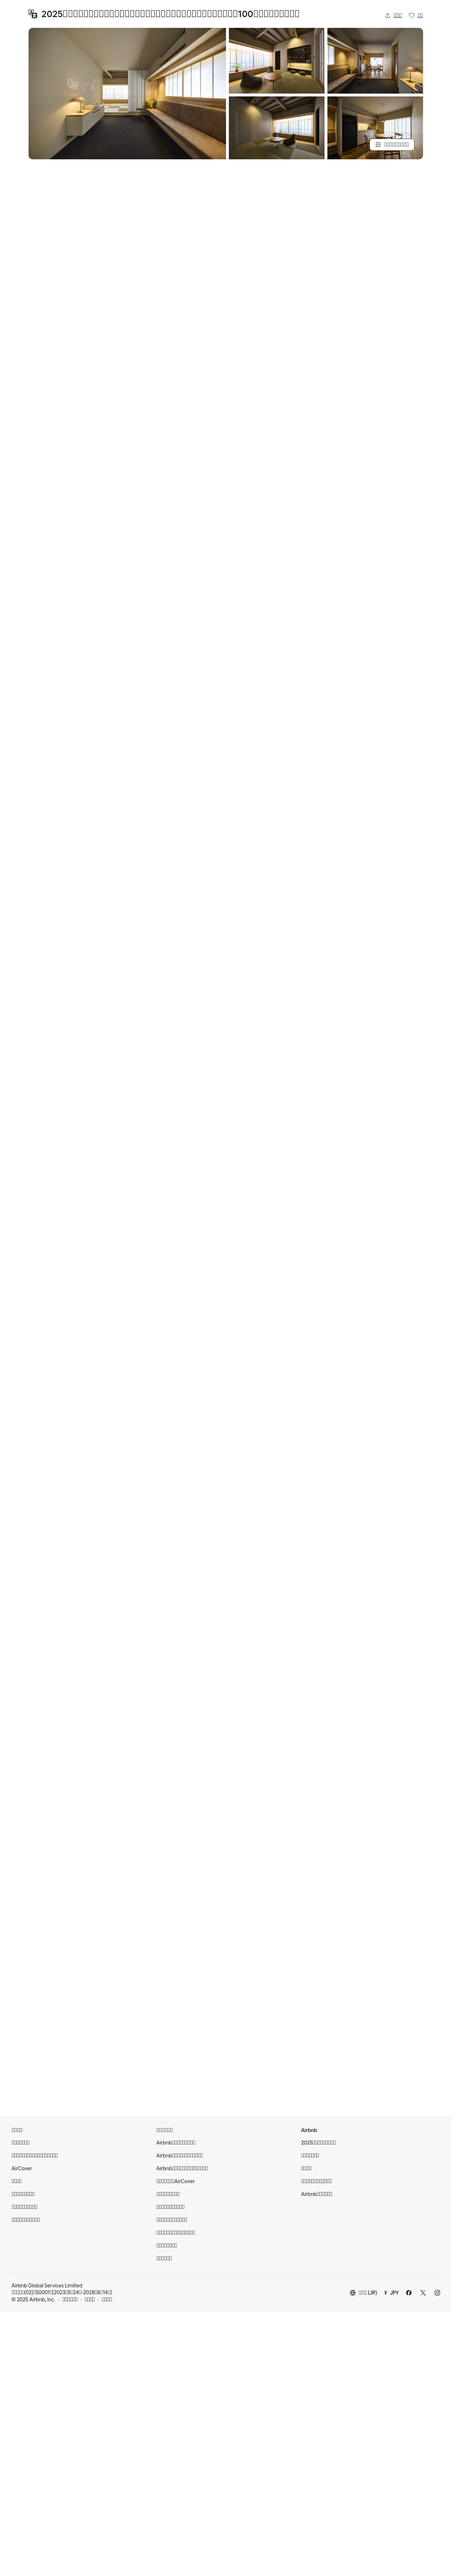
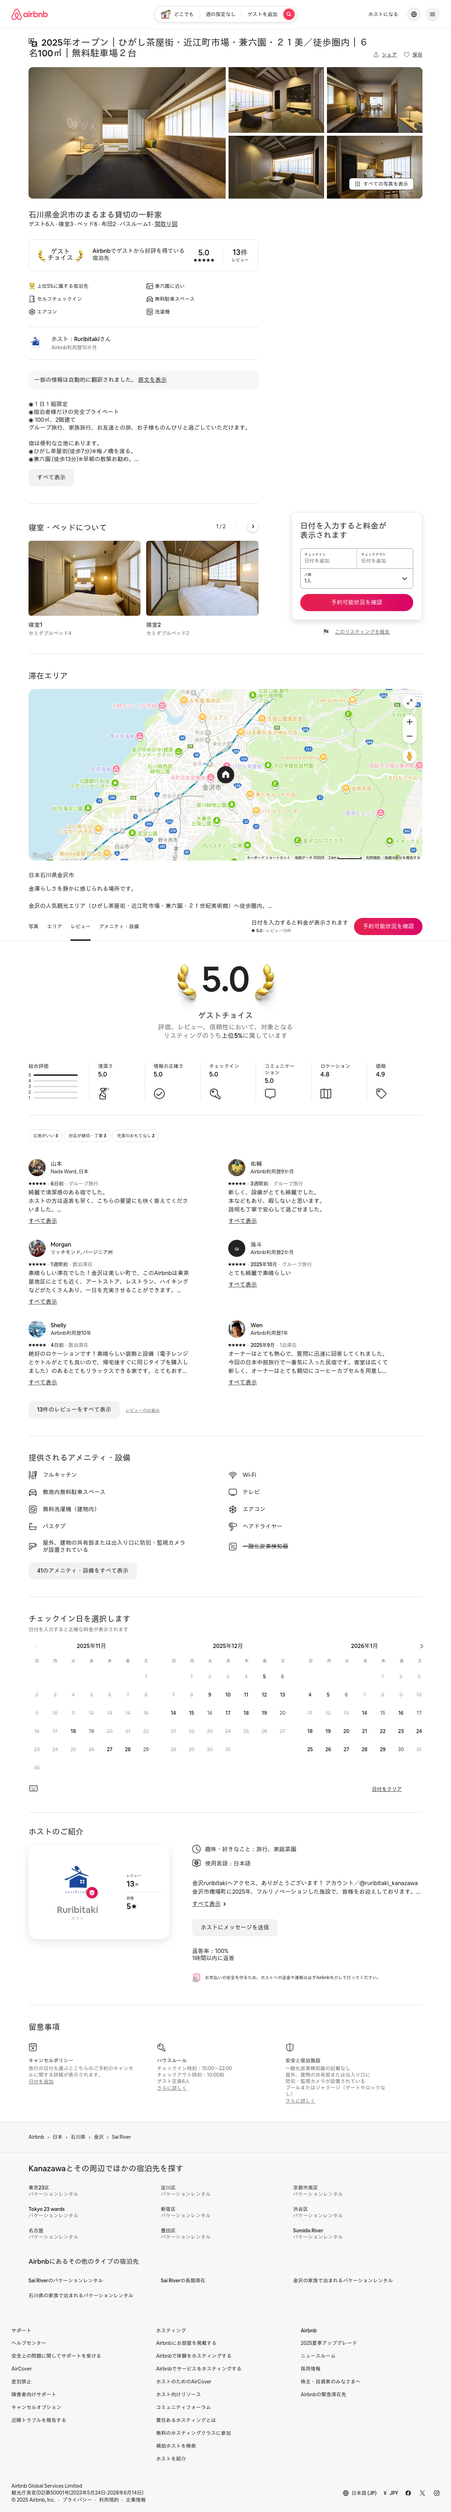
run scraper

diff --git a/scrape_airbnb_reviews.py b/scrape_airbnb_reviews.py
@@ -1,89 +1,247 @@
 
-import os,time
+import os
+
+import time
 
 from playwright.sync_api import sync_playwright
 
-LISTING_URL=os.getenv("LISTING_URL");MAX_REVIEWS=int(os.getenv("MAX_REVIEWS","50"))
 
-def safe_click(p,s,t=3000):
 
-    try:p.locator(s).first.click(timeout=t);return True
+LISTING_URL = os.getenv("LISTING_URL", "https://www.airbnb.jp/rooms/1435115775752551185")
 
-    except:return False
+MAX_REVIEWS = int(os.getenv("MAX_REVIEWS", "50"))
 
-def close_popup(p):
 
-    for s in ["button[aria-label='閉じる']","button[aria-label='Close']","button:has-text('×')"]:
 
-        if safe_click(p,s,1000):print("[INFO] Close popup:",s);return
+def log(msg):
 
-def scroll_reviews(p):
+    print(msg, flush=True)
 
-    for _ in range(4):p.keyboard.press("PageDown");time.sleep(1)
 
-def find_btn(p):
 
-    for c in ["text=レビュー","text=件のレビュー","button:has-text('レビュー')","[data-testid='reviews']"]:
+def safe_click(page, selector, desc="", timeout=5000):
 
-        if p.locator(c).first.is_visible():return c
+    try:
 
-    return None
+        page.locator(selector).first.click(timeout=timeout)
+
+        log(f"[CLICK] {desc or selector}")
+
+        return True
+
+    except Exception as e:
+
+        log(f"[MISS] {desc or selector} ({e.__class__.__name__})")
+
+        return False
+
+
+
+def close_popups(page):
+
+    log("[STEP] close_popups")
+
+    selectors = [
+
+        "button[aria-label='閉じる']",
+
+        "button[aria-label='Close']",
+
+        "button:has-text('×')",
+
+        "button:has-text('閉じる')",
+
+    ]
+
+    for sel in selectors:
+
+        if safe_click(page, sel, desc="popup close", timeout=1500):
+
+            time.sleep(1)
+
+
+
+def scroll_page_to_reviews(page):
+
+    log("[STEP] scroll_page_to_reviews")
+
+    for i in range(20):
+
+        page.mouse.wheel(0, 800)
+
+        time.sleep(0.5)
+
+
+
+def open_reviews_section(page):
+
+    log("[STEP] open_reviews_section")
+
+    candidates = [
+
+        "text=件のレビュー",
+
+        "text=レビュー",
+
+        "button:has-text('レビュー')",
+
+        "[data-testid='reviews']",
+
+    ]
+
+    for sel in candidates:
+
+        loc = page.locator(sel).first
+
+        try:
+
+            if loc.is_visible():
+
+                loc.click()
+
+                log(f"[OK] clicked reviews selector: {sel}")
+
+                return True
+
+        except Exception:
+
+            pass
+
+    log("[WARN] reviews button not found / not clickable")
+
+    return False
+
+
+
+def collect_reviews(page):
+
+    log("[STEP] collect_reviews")
+
+    os.makedirs("output", exist_ok=True)
+
+    selectors = [
+
+        "div[data-testid='review-card']",
+
+        "section:has-text('レビュー') div[data-testid='review']",
+
+    ]
+
+    reviews = None
+
+    for sel in selectors:
+
+        loc = page.locator(sel)
+
+        count = loc.count()
+
+        log(f"[INFO] selector {sel} -> {count} nodes")
+
+        if count > 0:
+
+            reviews = loc
+
+            break
+
+    rows = ["name,date,text"]
+
+    md_blocks = []
+
+    if reviews is None:
+
+        log("[WARN] no reviews found")
+
+    else:
+
+        count = min(reviews.count(), MAX_REVIEWS)
+
+        log(f"[INFO] extracting {count} reviews")
+
+        for i in range(count):
+
+            r = reviews.nth(i)
+
+            try:
+
+                name = r.locator("h3").first.inner_text() if r.locator("h3").count() else ""
+
+                date = r.locator("time").first.inner_text() if r.locator("time").count() else ""
+
+                text = r.inner_text().replace("\n", " ").strip()
+
+                rows.append(f"{name},{date},{text}")
+
+                md_blocks.append(f"### {name}\n- {date}\n{text}\n")
+
+            except Exception as e:
+
+                log(f"[ERR] review {i}: {e}")
+
+    with open("output/reviews.csv", "w") as f:
+
+        f.write("\n".join(rows))
+
+    with open("output/reviews.md", "w") as f:
+
+        f.write("\n".join(md_blocks))
+
+    page.screenshot(path="output/page.png", full_page=True)
+
+    log(f"[DONE] wrote {len(rows)-1} reviews to output/reviews.csv")
+
+
 
 def scrape():
 
+    log(f"[START] LISTING_URL={LISTING_URL}")
+
     with sync_playwright() as pw:
 
-        b=pw.chromium.launch(headless=False)
+        browser = pw.chromium.launch(
 
-        c=b.new_context(record_video_dir="output/videos")
+            headless=False,
 
-        p=c.new_page()
+            args=[
 
-        print("[1] goto",LISTING_URL)
+                "--disable-dev-shm-usage",
 
-        p.goto(LISTING_URL,wait_until="networkidle",timeout=120000);time.sleep(3)
+                "--no-sandbox",
 
-        print("[2] popup");close_popup(p);time.sleep(2)
+            ],
 
-        print("[3] scroll");scroll_reviews(p)
+        )
 
-        print("[4] detect btn");btn=find_btn(p)
+        context = browser.new_context(record_video_dir="output/videos")
 
-        if btn:print("[INFO] click",btn);p.locator(btn).click()
+        page = context.new_page()
 
-        else:print("[WARN] no reviews button")
+        log(f"[STEP] goto: {LISTING_URL}")
 
-        time.sleep(3)
+        page.goto(LISTING_URL, timeout=180000)  # networkidle はやめる
 
-        print("[5] extract")
+        page.wait_for_timeout(5000)
 
-        rev=p.locator("section:has-text('レビュー') div[data-testid='review']")
+        close_popups(page)
 
-        n=rev.count()
+        scroll_page_to_reviews(page)
 
-        csv=["name,date,text"];md=[]
+        opened = open_reviews_section(page)
 
-        for i in range(min(n,MAX_REVIEWS)):
+        if opened:
 
-            r=rev.nth(i)
+            page.wait_for_timeout(5000)
 
-            name=r.locator("h3").inner_text() if r.locator("h3").count() else ""
+        collect_reviews(page)
 
-            date=r.locator("time").inner_text() if r.locator("time").count() else ""
+        context.close()
 
-            text=r.inner_text().replace("\n"," ").strip()
+        browser.close()
 
-            csv.append(f"{name},{date},{text}");md.append(f"### {name}\n- {date}\n{text}\n")
+        log("[END] done")
 
-        os.makedirs("output",exist_ok=True)
 
-        open("output/reviews.csv","w").write("\n".join(csv))
 
-        open("output/reviews.md","w").write("\n".join(md))
+if __name__ == "__main__":
 
-        p.screenshot(path="output/page.png")
-
-        c.close();b.close();print("[DONE]",n)
-
-if __name__=="__main__":scrape()
+    scrape()
 
